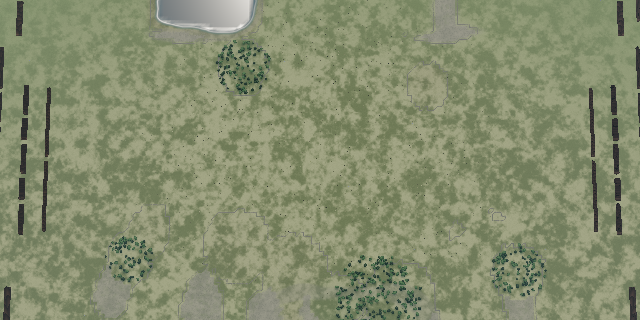
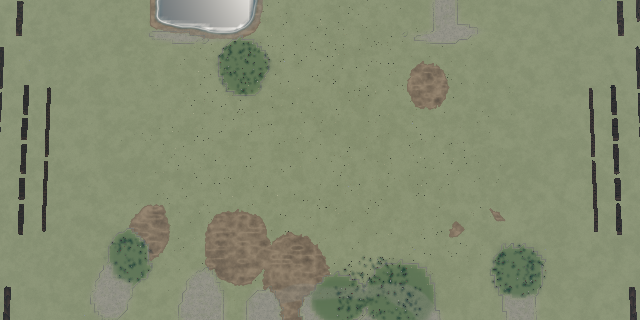
spec: reconcile battle turf closeout gates

diff --git a/specs/battle-ground-turf/visualizations/final-contact-sheet.html b/specs/battle-ground-turf/visualizations/final-contact-sheet.html
@@ -1,0 +1,107 @@
+<!doctype html>
+<html lang="en">
+<head>
+  <meta charset="utf-8">
+  <meta name="viewport" content="width=device-width, initial-scale=1">
+  <title>Battle ground turf — final contact sheet</title>
+  <style>
+    :root {
+      color-scheme: dark;
+      --ink: #eee3c6;
+      --muted: #b8aa87;
+      --bronze: #b88545;
+      --line: #4b402d;
+      --panel: #171713;
+      --ground: #0d0e0b;
+    }
+    * { box-sizing: border-box; }
+    body {
+      margin: 0;
+      background: var(--ground);
+      color: var(--ink);
+      font: 15px/1.45 ui-serif, Georgia, serif;
+    }
+    main { width: min(1500px, 100%); margin: 0 auto; padding: 28px; }
+    header { border-bottom: 1px solid var(--line); margin-bottom: 28px; padding-bottom: 18px; }
+    h1, h2 { font-weight: 500; letter-spacing: .025em; margin: 0; }
+    h1 { font-size: clamp(24px, 4vw, 42px); }
+    h2 { color: var(--bronze); font-size: 19px; margin-bottom: 12px; }
+    header p, figcaption { color: var(--muted); }
+    header p { margin: 6px 0 0; }
+    section { margin: 0 0 34px; }
+    .grid { display: grid; gap: 14px; grid-template-columns: repeat(12, minmax(0, 1fr)); }
+    figure { background: var(--panel); border: 1px solid var(--line); margin: 0; min-width: 0; }
+    figure.third { grid-column: span 4; }
+    figure.half { grid-column: span 6; }
+    figure.quarter { grid-column: span 3; }
+    img { display: block; width: 100%; aspect-ratio: 16 / 9; object-fit: cover; background: #080906; }
+    .native img { aspect-ratio: auto; object-fit: contain; }
+    .battle img { aspect-ratio: 16 / 7; object-position: center top; }
+    .top img { object-position: center 47%; }
+    figcaption { padding: 9px 11px 10px; }
+    figcaption strong { color: var(--ink); display: block; font-weight: 500; }
+    @media (max-width: 920px) {
+      figure.third, figure.quarter { grid-column: span 6; }
+    }
+    @media (max-width: 620px) {
+      main { padding: 18px; }
+      figure.third, figure.half, figure.quarter { grid-column: 1 / -1; }
+    }
+  </style>
+</head>
+<body>
+<main>
+  <header>
+    <h1>Battle ground turf</h1>
+    <p>Reference intent, inherited ground, and the final production surface at battle camera pitch.</p>
+  </header>
+
+  <section>
+    <h2>RTS read · matched ground crop plus reference intent</h2>
+    <div class="grid">
+      <figure class="quarter native"><img src="../assets/ref-rts-meadow.png" alt="RTS meadow reference"><figcaption><strong>Reference intent</strong>Broad living field structure without woven grain.</figcaption></figure>
+      <figure class="quarter native"><img src="../assets/telemetry/corrected-before-rts.png" alt="Inherited RTS ground crop"><figcaption><strong>Before · fixed crop</strong>Camouflage-scale value patches.</figcaption></figure>
+      <figure class="quarter native"><img src="../assets/telemetry/corrected-after-rts.png" alt="Corrected RTS ground crop"><figcaption><strong>Final · same crop</strong>Lower-amplitude macro field; no synthetic fibers.</figcaption></figure>
+      <figure class="quarter"><img src="../../../web/shots/battle/ground-turf/full-rts.png" alt="Final RTS production context"><figcaption><strong>Final context</strong>Real blades own the near field and formations stay readable.</figcaption></figure>
+    </div>
+  </section>
+
+  <section class="top">
+    <h2>Top-down read · matched production frame plus reference intent</h2>
+    <div class="grid">
+      <figure class="quarter native"><img src="../assets/ref-topdown-turf.png" alt="Top-down turf reference"><figcaption><strong>Reference intent</strong>Fine irregularity without repeating weave.</figcaption></figure>
+      <figure class="quarter"><img src="../assets/before-photoreal-parity.png" alt="Inherited top-down production frame"><figcaption><strong>Before · fixed frame</strong>Inherited open-ground palette and contrast.</figcaption></figure>
+      <figure class="quarter"><img src="../../../web/shots/battle/photoreal-parity.png" alt="Final top-down production frame"><figcaption><strong>Final · same frame</strong>Shared meadow palette with restrained macro variation.</figcaption></figure>
+      <figure class="quarter"><img src="../../../web/shots/battle/ground-turf/full-topdown.png" alt="Final top-down ownership fixture"><figcaption><strong>Final control</strong>Dedicated fixed-seed ownership frame.</figcaption></figure>
+    </div>
+  </section>
+
+  <section>
+    <h2>Earth ownership · soft boundary, hard category</h2>
+    <div class="grid">
+      <figure class="quarter"><img src="../../../web/shots/battle/ground-turf/dirt-edge.png" alt="Mud turf edge close-up"><figcaption><strong>Mud edge</strong>Irregular narrow feather without a dark halo.</figcaption></figure>
+      <figure class="quarter"><img src="../../../web/shots/battle/ground-turf/road-edge.png" alt="Road turf edge close-up"><figcaption><strong>Road edge</strong>Narrow grass spill without a dark halo.</figcaption></figure>
+      <figure class="quarter native"><img src="../../../web/shots/battle/ground-turf/road-scree-rts.png" alt="Mud circle, road bar, and scree circle at RTS pitch"><figcaption><strong>Category control</strong>Top: mud. Middle: road. Bottom: scree. Only earth categories feather.</figcaption></figure>
+      <figure class="quarter"><img src="../../../web/shots/battle/ground-turf/edge-ruler.png" alt="Edge width telemetry ruler"><figcaption><strong>Width context</strong>Visual companion to measured 1.747 m mud and 1.431 m road transitions.</figcaption></figure>
+    </div>
+  </section>
+
+  <section>
+    <h2>World continuity · playable → vista → quad</h2>
+    <div class="grid">
+      <figure class="half native"><img src="../../../web/shots/battle/battle-genmap-vista/golden.png" alt="Full golden-hour battlefield across playable, vista, and terrain quad"><figcaption><strong>Golden full frame</strong>Playable ground, vista band, and distant quad remain legible as one world.</figcaption></figure>
+      <figure class="half native"><img src="../../../web/shots/battle/battle-genmap-vista/overcast.png" alt="Full overcast battlefield across playable, vista, and terrain quad"><figcaption><strong>Overcast full frame</strong>The same three-owner composition under flat light.</figcaption></figure>
+    </div>
+  </section>
+
+  <section>
+    <h2>Lighting preservation and battle composition</h2>
+    <div class="grid">
+      <figure class="third"><img src="../../../web/shots/battle/photoreal-lighting/golden-hour-crowd-mid.png" alt="Golden-hour battle crowd"><figcaption><strong>Golden hour</strong>Warm light remains the owner of time-of-day color.</figcaption></figure>
+      <figure class="third"><img src="../../../web/shots/battle/photoreal-lighting/overcast-foggy-crowd-mid.png" alt="Overcast battle crowd"><figcaption><strong>Overcast</strong>Turf holds value separation without camouflage noise.</figcaption></figure>
+      <figure class="third battle"><img src="../../../web/shots/battle/battle-genmap-vista/golden.png" alt="Composed battlefield with formations"><figcaption><strong>Composed battle</strong>Ground supports formations and distance read at the production camera.</figcaption></figure>
+    </div>
+  </section>
+</main>
+</body>
+</html>

diff --git a/packages/photoreal-renderer/src/battle/groundDetail.ts b/packages/photoreal-renderer/src/battle/groundDetail.ts
@@ -33,7 +33,7 @@ export const TURF_CONTRAST = {
     anchorLift: 1.015,
     anchorWarmth: 0.048,
     valueSpread: 0.14,
-    fiberSpread: 0.04,
+    fineSpread: 0.04,
     valueMinimum: 0.88,
     valueMaximum: 1.12,
     mixStrength: 0.42,
@@ -174,7 +174,7 @@ export function groundDetailNode(
 export function turfCanopyFromSignalsNode(
   broad: FloatNode,
   mid: FloatNode,
-  fiber: FloatNode,
+  fine: FloatNode,
 ): Vec3Node {
   const c = TURF_CONTRAST.canopy;
   const shape = TURF_SHAPE.canopy;
@@ -189,7 +189,7 @@ export function turfCanopyFromSignalsNode(
     .mul(c.anchorLift)
     .mul(vec3(1 + c.anchorWarmth, 1, 1 - c.anchorWarmth));
   const value = clamp(
-    float(1).add(canopy.sub(0.5).mul(c.valueSpread)).add(fiber.sub(0.5).mul(c.fiberSpread)),
+    float(1).add(canopy.sub(0.5).mul(c.valueSpread)).add(fine.sub(0.5).mul(c.fineSpread)),
     c.valueMinimum,
     c.valueMaximum,
   );
@@ -197,11 +197,11 @@ export function turfCanopyFromSignalsNode(
 }
 
 /** The fixed-hue far-turf family shared by playable and vista ground. */
-export function turfCanopyNode(world: Vec2Node, fiber: FloatNode): Vec3Node {
+export function turfCanopyNode(world: Vec2Node, fine: FloatNode): Vec3Node {
   const shape = TURF_SHAPE.canopy;
   const broad = fbmN(world.mul(shape.broadScale).add(vec2(2.5, 7))).toVar();
   const mid = fbmN(world.mul(shape.midScale).add(vec2(6, 1.5))).toVar();
-  return turfCanopyFromSignalsNode(broad, mid, fiber);
+  return turfCanopyFromSignalsNode(broad, mid, fine);
 }
 
 function smoothstep(low: number, high: number, value: number): number {

diff --git a/packages/photoreal-renderer/src/battle/terrainLayer.ts b/packages/photoreal-renderer/src/battle/terrainLayer.ts
@@ -557,17 +557,17 @@ export function createGroundMesh(
       ),
     ).toVar();
     const fineBreak = fbmN(world.mul(2.4).add(vec2(9.0, 4.0))).toVar();
-    const grazingFiber = brush.mul(0.6).add(raked.mul(0.28)).add(fineBreak.mul(0.12)).toVar();
+    const grazingFine = brush.mul(0.6).add(raked.mul(0.28)).add(fineBreak.mul(0.12)).toVar();
     // Clump structure at two scales the grazing compression can still resolve:
     // a 22 m broad swell and a ~8 m mid clump. At ground level a screen band of
     // ~100 px holds tens of metres of depth, so only metre-plus features read as
-    // canopy patches - fine fiber alone minifies to a flat wash (the "bald
+    // canopy patches - fine noise alone minifies to a flat wash (the "bald
     // featureless green midground" critique). These drive light/dark patches
     // with enough tonal spread to read as grassland, not a painted gradient.
-    // One fixed khaki anchor keeps hue stable. Canopy and fiber now scale all
+    // One fixed khaki anchor keeps hue stable. Canopy and fine noise scale all
     // channels together at low amplitude instead of sweeping between four
     // differently hued palette endpoints (the measured camouflage culprit).
-    const grazingLift = turfCanopyNode(world, grazingFiber);
+    const grazingLift = turfCanopyNode(world, grazingFine);
     const canopyEnabled = options.disabledGroundDetail === "canopy" ? 0 : 1;
     albedo = mix(
       albedo,

diff --git a/specs/battle-ground-turf/reports/slice05-change-ledger.md b/specs/battle-ground-turf/reports/slice05-change-ledger.md
@@ -1,0 +1,34 @@
+# Slice 05 consolidated change ledger
+
+The authoritative final frames are the current files under `web/shots/battle`.
+The six `assets/slice03-narrowed-gate` copies are dated slice-03 provenance; four
+of them differ from the final baselines by 43–151 pixels after slice 04 and are
+not claimed to be byte-identical.
+
+| Test or baseline | Previous behavior | Final behavior | Why |
+|---|---|---|---|
+| `battle-genmap-smoke.png` | High-contrast open-ground mottle | Restrained meadow macro/canopy under the same battle | Slice 02 contrast correction **[moved]** |
+| `dusk-shadow-scenery.png` | Blotchy grove substrate | Calmer meadow beneath unchanged dusk lighting | Slice 02 contrast correction **[moved]** |
+| `golden-hour-shadow-scenery.png` | Blotchy grove substrate | Calmer meadow beneath unchanged golden lighting | Slice 02 contrast correction **[moved]** |
+| `noon-shadow-scenery.png` | Blotchy grove substrate | Calmer meadow beneath unchanged noon lighting | Slice 02 contrast correction **[moved]** |
+| `overcast-foggy-shadow-scenery.png` | Blotchy grove substrate | Calmer meadow beneath unchanged overcast lighting | Slice 02 contrast correction **[moved]** |
+| `ground-turf/full-close.png` | No production ownership baseline | Real blades over shared macro/canopy | Slice 03 near-field contract **[added]** |
+| `ground-turf/full-rts.png` | No production ownership baseline | Full tactical-pitch turf and formations | Slice 03 RTS contract **[added]** |
+| `ground-turf/full-topdown.png` | No production ownership baseline | Full overhead turf and formations | Slice 03 top-down contract **[added]** |
+| `ground-turf/ground-only-close.png` | No blade-off production control | Substrate control with blades held off on every draw | Slice 03 ownership proof **[added]** |
+| `ground-turf/ground-only-rts.png` | No blade-off production control | RTS substrate control | Slice 03 ownership proof **[added]** |
+| `ground-turf/ground-only-topdown.png` | No blade-off production control | Top-down substrate control | Slice 03 ownership proof **[added]** |
+| `ground-turf/dirt-edge.png` | No mud-feather baseline | Irregular narrow turf↔mud edge with interior churn | Slice 04 earth ownership **[added]** |
+| `ground-turf/road-edge.png` | No road-feather baseline | Narrow grass spill over a classified road edge | Slice 04 earth ownership **[added]** |
+| `ground-turf/road-scree-rts.png` | Road and scree lacked a joint control | Road feathers while adjacent scree remains hard | Slice 04 category proof **[added]** |
+| `ground-turf/edge-ruler.png` | No visual width telemetry | Metre ruler pins bounded feather width and zero islands | Slice 04 width proof **[added]** |
+| `photoreal-lighting/golden-hour-crowd-mid.png` | Stale high-frequency substrate remained under the lighting fixture | Final calm turf under unchanged golden-hour lighting | Full-sweep reconciliation of the slice 02 contrast move **[moved]** |
+| `photoreal-lighting/noon-crowd-mid.png` | Stale high-frequency substrate remained under the lighting fixture | Final calm turf under unchanged noon lighting | Full-sweep reconciliation of the slice 02 contrast move **[moved]** |
+| `battle-map-style` production-mid structure oracle | Full-resolution edge energy gated “grass” even though it combined blades and substrate noise | Edge energy remains reported diagnostically; retention, contrast, occupancy, vertical runs, and production blade-profile stats own the pass | Synthetic substrate detail was deliberately removed, so the old edge floor confounded the mechanism it claimed to measure **[moved]** |
+
+Intermediate baked-spike shots, term-off attribution baselines, and the sampler
+performance shot were created only as diagnostic evidence and then removed when
+their implementations failed the binding visual gate. Their behavior changes are
+enumerated in `slice02-change-ledger.md` and `slice03-change-ledger.md`; none is a
+final production baseline. No battle snapshot was deleted from the inherited
+suite, and no campaign snapshot or sim/balance expectation moved.

diff --git a/specs/battle-ground-turf/reports/slice05-visual-gate.md b/specs/battle-ground-turf/reports/slice05-visual-gate.md
@@ -1,0 +1,55 @@
+# Slice 05 final visual gate
+
+The final contact sheet is `../visualizations/final-contact-sheet.html`. It loads
+17 source frames with no missing images and distinguishes reference intent from
+matched verification evidence:
+
+- RTS uses a fixed before/final ground crop plus the final production-camera
+  context.
+- Top-down uses the inherited and final `photoreal-parity` frame at identical
+  framing, with the photographic turf image labeled only as intent.
+- Earth evidence includes close mud, close road, labeled mud/road/scree control,
+  and the visual companion to measured width telemetry.
+- Full golden and overcast frames show playable ground, vista band, and distant
+  terrain quad together; matched crowd crops preserve both lighting states.
+- A cropped production-camera frame verifies formation readability over the
+  final ground.
+
+## Fresh-eyes critique
+
+The first unprimed review rejected the sheet because it mixed incompatible camera
+scales, stretched 102×512 seam strips into 16:9, and claimed details the images did
+not show. Those defects were binding: the sheet was rebuilt around matched pairs,
+native aspect ratios, full seam-context frames, explicit category labels, and
+narrower captions.
+
+The second fresh review accepted every required class independently:
+
+| Shot class | Verdict | Evidence |
+|---|---|---|
+| RTS before/reference/final | ACCEPT | Matched before/final crop shows reduced macro amplitude; final context keeps formations readable. |
+| Top-down before/reference/final | ACCEPT | Identical production framing makes the palette/contrast movement comparable; reference is honestly labeled intent. |
+| Close mud | ACCEPT | Narrow irregular feather with no dark halo. |
+| Close/wide road and scree | ACCEPT | Labeled categories show feathered earth beside a hard scree boundary. |
+| Playable → vista → quad | ACCEPT | Full golden and overcast frames retain coherent foreground, vista, and distance. |
+| Golden/overcast preservation | ACCEPT | Matched crops preserve ground structure while illumination changes. |
+| Composed units | ACCEPT | Production-camera crop keeps formations readable against foreground and distance. |
+
+The reviewer noted three non-blocking limitations: source UI remains in the
+reference-intent image, the fog-heavy top-down control is weak supplemental
+evidence, and ruler marks are too faint to independently derive the quoted
+measurements. None is used as the sole proof: matched frames and numeric scene
+telemetry own those claims.
+
+The final full sweep then exposed two stale lighting baselines. After the
+golden/noon frames were inspected and intentionally re-pinned to the calmer turf,
+the sheet was rendered a third time and reviewed again. Golden/overcast
+preservation and overall claim honesty remained **ACCEPT**; the reviewer found no
+new broken loads, misleading crops, or contradictory comparisons.
+
+## Human checkpoint
+
+On 2026-07-16 the final rendered 1440 px full-page sheet
+(`/private/tmp/turf-final-contact-sheet-v3.png`) was opened in the macOS Preview
+application after the lighting-baseline recheck ACCEPT. This is the final visual
+checkpoint for archive.

diff --git a/specs/battle-ground-turf/reports/slice05-refactor-audit.md b/specs/battle-ground-turf/reports/slice05-refactor-audit.md
@@ -1,0 +1,37 @@
+# Slice 05 ownership and refactor audit
+
+## Owners retained
+
+- `packages/game-renderer/src/battle/meadowPalette.ts` remains the sole open-meadow
+  hue owner across ground, blades, far turf, and terrain quads.
+- `packages/photoreal-renderer/src/battle/groundDetail.ts` remains the single
+  photoreal turf contrast and earth-feather amplitude owner. Its former `fiber`
+  noise label was renamed `fine`; it is low-amplitude canopy value noise, not a
+  synthetic strand or substrate owner.
+- Real blade geometry remains the only near-camera fine turf. No baked texture,
+  strand ridge, capsule, or analytic substrate-fiber helper survives.
+- `WIDE_DETAIL_TERRAIN_STYLE` is retained deliberately. It is selected below
+  zoom 1.2 and has independently tuned fleck thresholds, contrast, and aerial
+  strength; collapsing it would remove a real distant-minification owner rather
+  than deduplicate equivalent constants.
+- Remaining private terrain color literals belong to rock, scree, dust, or
+  diagnostic bench surfaces. They are categorical non-meadow materials and are
+  therefore exempt from the meadow-palette ownership rule.
+
+## Test placement
+
+`groundSurface.test.ui.ts` is DOM-free but intentionally remains in the Vitest
+path. It imports the production Three/TSL graph through `groundDetail.ts`; the
+Vitest aliases resolve Three's browser exports consistently with Vite. Moving it
+to the stripped-TypeScript Node harness would replace that established module
+resolution seam without improving the tested ownership boundary. The `.ui.ts`
+suffix means “Vite/Vitest renderer test” in this repository, not “DOM test.”
+
+## Rejected paths confirmed absent
+
+Searches across production source find no turf bake lifecycle, substrate texture,
+view-aligned ridge, cell-capsule fiber, or alternate meadow palette. Historical
+mentions remain only in archived evidence and grass-model experiment names; those
+model-family identifiers refer to real grass geometry and are not substrate
+owners.
+

diff --git a/specs/battle-ground-turf/reports/slice03-visual-gate.md b/specs/battle-ground-turf/reports/slice03-visual-gate.md
@@ -22,4 +22,3 @@ The hardware `battle-perf-30k` oracle ran on Apple Metal with 30,560 soldiers.
 Mid measured 27.12 ms median / 30.04 ms p95 GPU; vista measured 22.84 ms /
 27.76 ms. Continuous pan, zoom, wheel burst, and close-fill rAF p95 all remained
 below 23.4 ms. Every locked 33 ms assertion passed.
-
